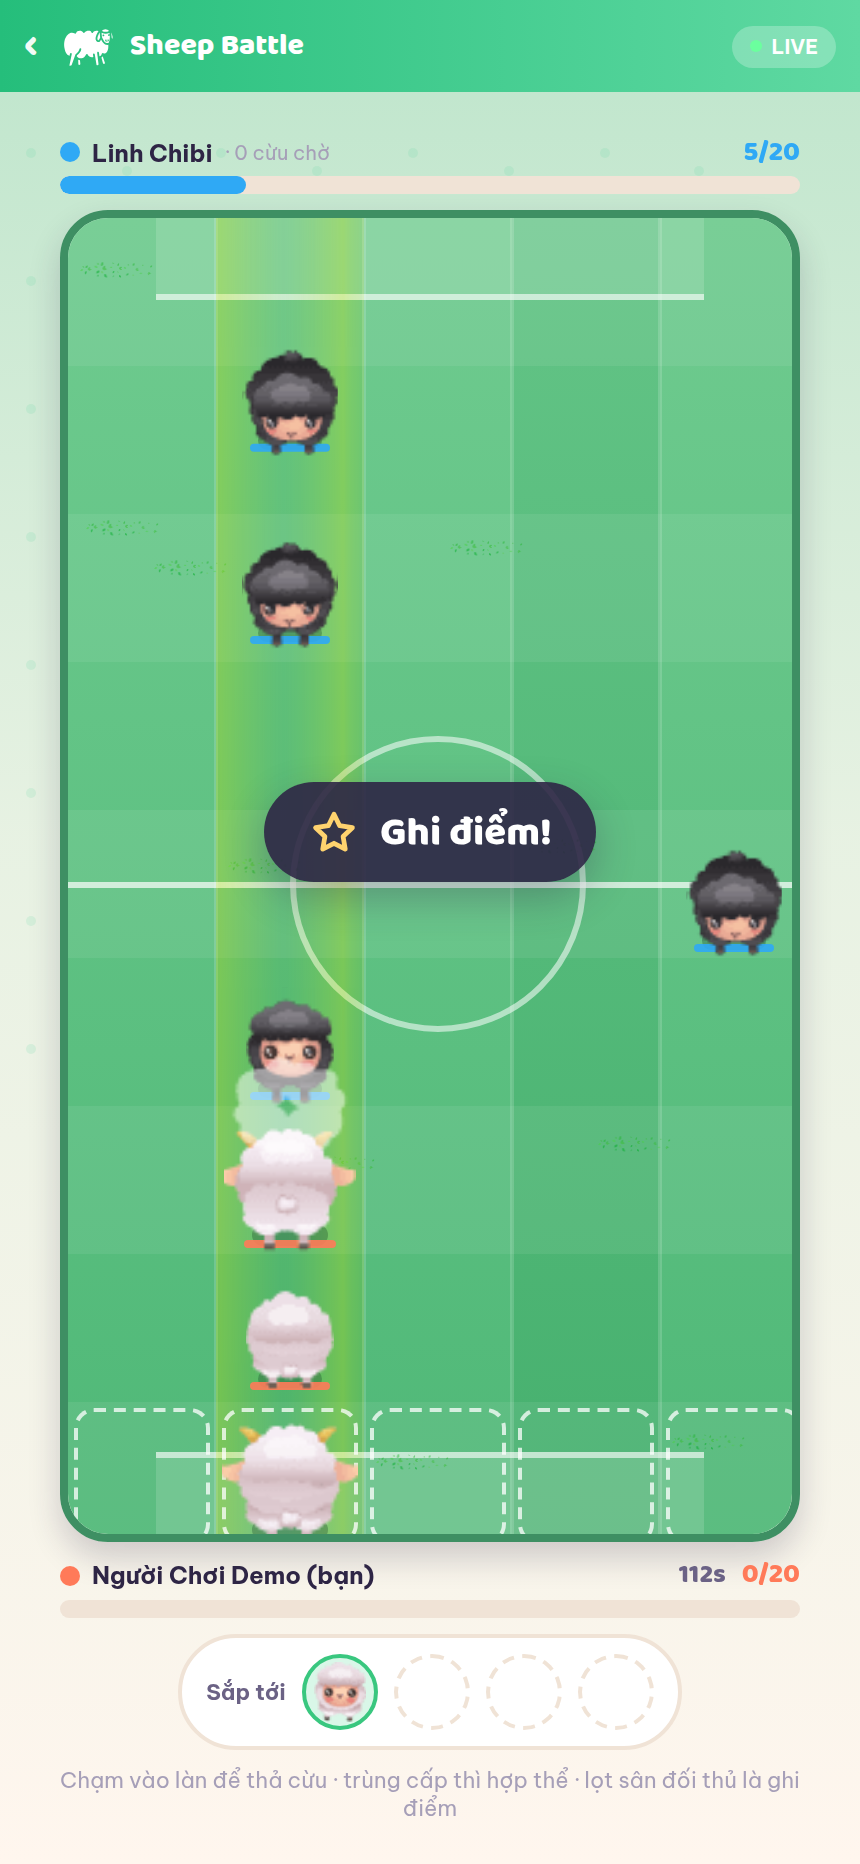
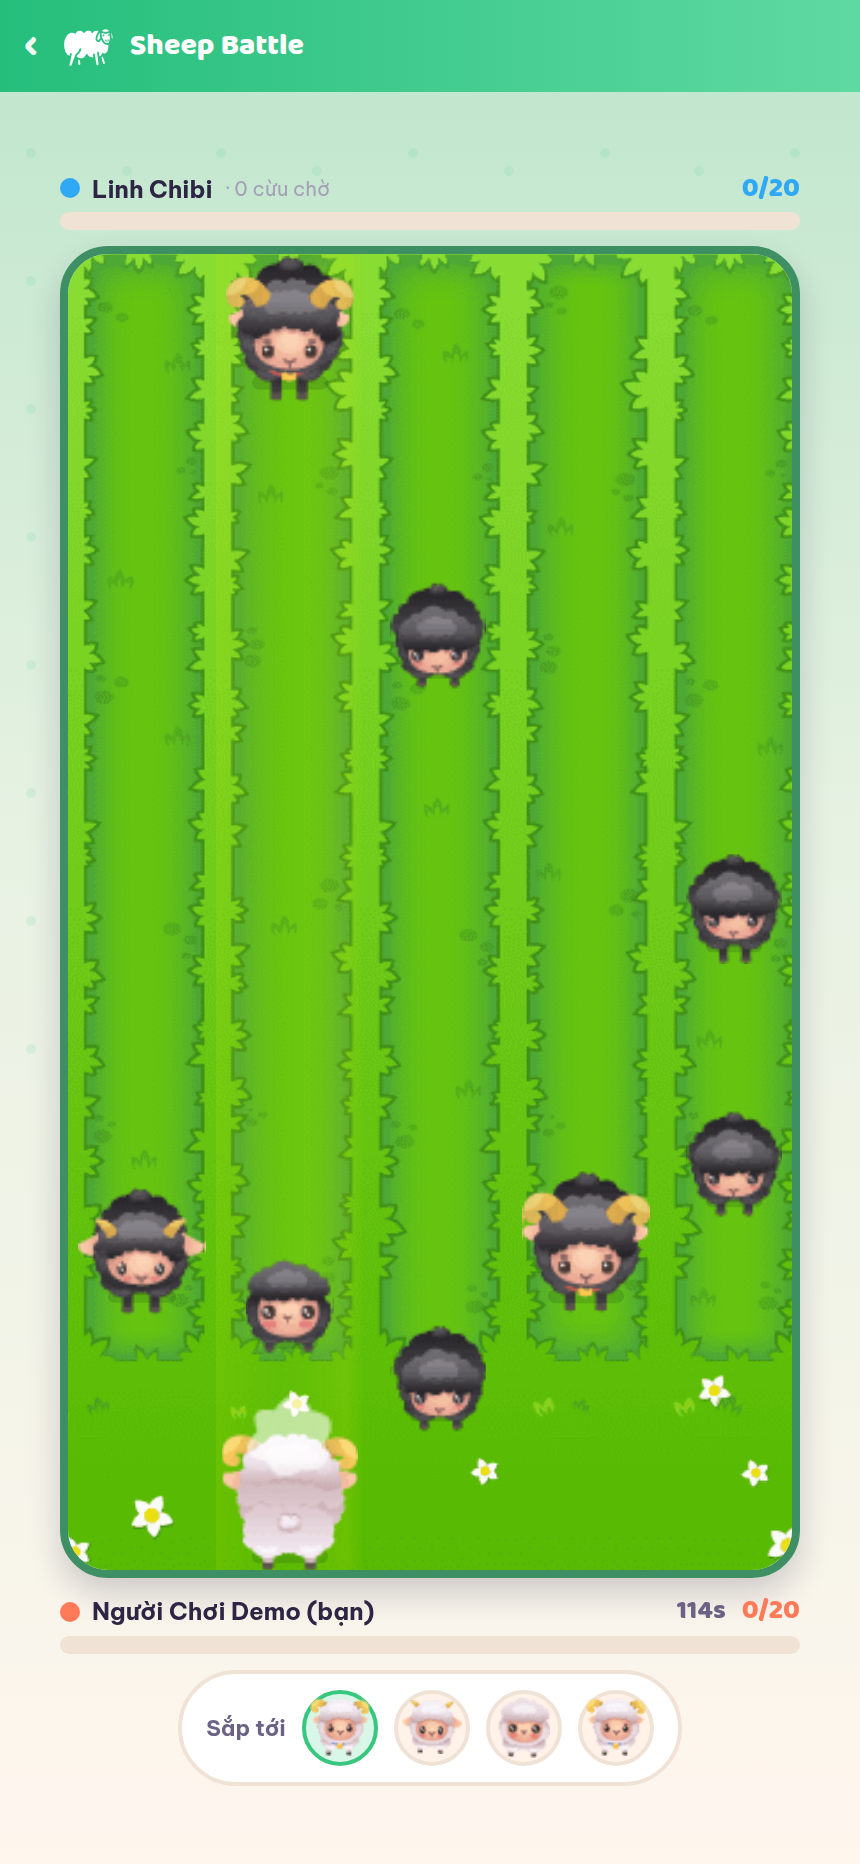
Sheep Battle theo đúng luật gốc: bỏ hợp thể, đẩy nhau theo trọng lượng đàn
- Engine tính trọng lượng cả dây cừu liền nhau trong làn, bên nặng hơn đẩy nguyên
  cụm lùi một ô mỗi 700ms, ngang cân thì đứng im; không còn cơ chế hợp thể.
- Cấp cừu bốc ngẫu nhiên 1-5 theo tỉ lệ 40/30/17/9/4 %.
- Cừu bị đẩy ngược qua vạch nhà thì đối thủ được điểm bằng cấp của nó.
- Cắt dải trời và nông trại khỏi ảnh sàn, bỏ dòng ghi chú dưới sân.
- Bot thả cừu vào làn trống đang thiếu trọng lượng nhất.
- README mô tả lại luật và ghi chú cách cắt sàn.

diff --git a/packages/shared/src/games/sheep.ts b/packages/shared/src/games/sheep.ts
@@ -60,9 +60,17 @@ const REFILL_MS = 1400;
 const dirOf = (seat: number) => (seat === 0 ? 1 : -1);
 const spawnPos = (seat: number, laneLength: number) => (seat === 0 ? 0 : laneLength - 1);
 
-/** Cừu mới chủ yếu là cấp 1, thỉnh thoảng được cấp 2 cho đỡ nhàm. */
+/**
+ * Cấp cừu trong hàng chờ bốc ngẫu nhiên như bản gốc (rand % 5), nghiêng về cừu
+ * nhỏ để cừu chúa vẫn là của hiếm.
+ */
 function rollLevel(rng: Rng): number {
-  return rng.next() < 0.18 ? 2 : 1;
+  const r = rng.next();
+  if (r < 0.4) return 1;
+  if (r < 0.7) return 2;
+  if (r < 0.87) return 3;
+  if (r < 0.96) return 4;
+  return 5;
 }
 
 export const SheepEngine: GameEngine<SheepState, SheepConfig> = {
@@ -96,7 +104,7 @@ export const SheepEngine: GameEngine<SheepState, SheepConfig> = {
       turnStartedAt: now,
       winnerIds: [],
       over: false,
-      log: ['Thả cừu vào làn — hai cừu cùng cấp chồng lên nhau sẽ tiến hoá!'],
+      log: ['Thả cừu vào làn — làn nào nặng hơn thì đẩy được đàn địch lùi về!'],
       turnSeconds: 0,
     };
   },
@@ -122,26 +130,18 @@ export const SheepEngine: GameEngine<SheepState, SheepConfig> = {
     const log: string[] = [];
     const events: any[] = [];
 
-    if (occupant) {
-      if (occupant.seat !== seat) return err('LANE_BLOCKED');
-      if (occupant.level !== level) return err('LANE_BLOCKED');
-      if (occupant.level >= MAX_LEVEL) return err('MAX_LEVEL_REACHED');
-      // Thả trúng cừu cùng cấp ở ô xuất phát → tiến hoá tại chỗ.
-      const target = units.find((u) => u.id === occupant.id)!;
-      target.level += 1;
-      log.push(`${state.players[seat].name} tiến hoá cừu lên cấp ${target.level}`);
-      events.push({ type: 'merge', payload: { seat, lane, level: target.level } });
-    } else {
-      units.push({
-        id: state.nextUnitId,
-        seat,
-        lane,
-        pos,
-        level,
-        lastMoveAt: now,
-      });
-      events.push({ type: 'deploy', payload: { seat, lane, level } });
-    }
+    // Ô xuất phát còn cừu thì chờ nó đi đã — không có luật hợp thể.
+    if (occupant) return err('LANE_BLOCKED');
+
+    units.push({
+      id: state.nextUnitId,
+      seat,
+      lane,
+      pos,
+      level,
+      lastMoveAt: now,
+    });
+    events.push({ type: 'deploy', payload: { seat, lane, level } });
 
     queues[seat] = queue.slice(1);
 
@@ -150,7 +150,7 @@ export const SheepEngine: GameEngine<SheepState, SheepConfig> = {
         ...state,
         units,
         queues,
-        nextUnitId: state.nextUnitId + (occupant ? 0 : 1),
+        nextUnitId: state.nextUnitId + 1,
         log: [...state.log, ...log].slice(-20),
       },
       events,
@@ -178,75 +178,112 @@ export const SheepEngine: GameEngine<SheepState, SheepConfig> = {
       }
     });
 
-    // Cừu đi trước là cừu đang tiến sâu nhất vào phần sân đối phương.
-    const advance = (u: SheepUnit) => (u.seat === 0 ? u.pos : state.laneLength - 1 - u.pos);
-    const order = units.slice().sort((a, b) => advance(b) - advance(a));
     const dead = new Set<number>();
 
-    for (const mover of order) {
-      if (dead.has(mover.id)) continue;
-      // Đang ghì nhau: đứng tại chỗ đẩy, chưa đi và chưa phân thắng bại.
-      if (mover.lockUntil && now < mover.lockUntil) continue;
-      if (now - mover.lastMoveAt < MOVE_MS) continue;
-      mover.lastMoveAt = now;
-      dirty = true;
+    /**
+     * Ghi điểm khi một con vượt qua vạch cuối. Vượt vạch sân địch là mình ghi;
+     * bị đẩy lùi qua vạch sân nhà thì đối thủ ghi — đúng như bản gốc, nơi cừu
+     * chạm vạch nào cũng trừ điểm của bên giữ vạch đó.
+     */
+    const crossLine = (u: SheepUnit) => {
+      if (u.pos >= 0 && u.pos < state.laneLength) return false;
+      // Vạch dưới (pos < 0) là sân của ghế 0, vạch trên là sân của ghế 1.
+      const owner = u.pos < 0 ? 0 : 1;
+      const scorer = u.seat === owner ? 1 - owner : u.seat;
+      score[scorer] += u.level;
+      dead.add(u.id);
+      log.push(`${state.players[scorer].name} ghi ${u.level} điểm`);
+      events.push({ type: 'score', payload: { seat: scorer, points: u.level } });
+      return true;
+    };
 
-      const dir = dirOf(mover.seat);
-      const next = mover.pos + dir;
+    // Xử lý từng làn một: trong một làn, cả đàn dính nhau thành một khối đẩy.
+    const byLane = new Map<number, SheepUnit[]>();
+    for (const u of units) {
+      const list = byLane.get(u.lane) ?? [];
+      list.push(u);
+      byLane.set(u.lane, list);
+    }
 
-      // Lọt qua đầu sân đối thủ → ghi điểm bằng đúng cấp của cừu.
-      if (next < 0 || next >= state.laneLength) {
-        score[mover.seat] += mover.level;
-        dead.add(mover.id);
-        log.push(`${state.players[mover.seat].name} ghi ${mover.level} điểm`);
-        events.push({ type: 'score', payload: { seat: mover.seat, points: mover.level } });
-        continue;
+    for (const laneUnits of byLane.values()) {
+      laneUnits.sort((a, b) => a.pos - b.pos);
+
+      // Điểm chạm: hai con sát nhau nhưng khác phe.
+      let contact: [SheepUnit, SheepUnit] | null = null;
+      for (let i = 0; i + 1 < laneUnits.length; i++) {
+        const a = laneUnits[i];
+        const b = laneUnits[i + 1];
+        if (a.seat !== b.seat && b.pos - a.pos === 1) {
+          contact = [a, b];
+          break;
+        }
       }
 
-      const target = units.find((u) => !dead.has(u.id) && u.id !== mover.id && u.lane === mover.lane && u.pos === next);
+      if (contact) {
+        const [low, high] = contact;
+        // Chuỗi cừu cùng phe đứng liền sau con đầu — cả chuỗi cùng góp sức đẩy.
+        const chainOf = (head: SheepUnit, step: 1 | -1) => {
+          const chain = [head];
+          let p = head.pos;
+          for (;;) {
+            const behind = laneUnits.find((u) => u.seat === head.seat && u.pos === p + step);
+            if (!behind) break;
+            chain.push(behind);
+            p += step;
+          }
+          return chain;
+        };
+        const lowChain = chainOf(low, -1);
+        const highChain = chainOf(high, 1);
+        const lowWeight = lowChain.reduce((sum, u) => sum + u.level, 0);
+        const highWeight = highChain.reduce((sum, u) => sum + u.level, 0);
+        const both = [...lowChain, ...highChain];
 
-      if (!target) {
-        mover.pos = next;
-        continue;
-      }
+        // Đang tì nhau thì đi chậm hơn lúc chạy không.
+        const lastPush = Math.max(...both.map((u) => u.lastMoveAt));
+        if (now - lastPush < PUSH_MS) {
+          for (const u of both) u.clashAt = now;
+          continue;
+        }
 
-      if (target.seat === mover.seat) {
-        // Cừu nhà: cùng cấp thì hợp nhất, khác cấp thì đứng chờ.
-        if (target.level === mover.level && target.level < MAX_LEVEL) {
-          target.level += 1;
-          dead.add(mover.id);
-          events.push({ type: 'merge', payload: { seat: mover.seat, lane: mover.lane, level: target.level } });
+        for (const u of both) {
+          u.lastMoveAt = now;
+          u.clashAt = now;
+        }
+        dirty = true;
+
+        // Bên nặng hơn đẩy cả khối về phía sân bên nhẹ; cân sức thì giậm chân.
+        const shift = lowWeight > highWeight ? 1 : highWeight > lowWeight ? -1 : 0;
+        if (shift === 0) continue;
+
+        const winnerSeat = shift === 1 ? low.seat : high.seat;
+        events.push({ type: 'push', payload: { lane: low.lane, seat: winnerSeat } });
+        for (const u of both) {
+          u.pos += shift;
+          crossLine(u);
         }
         continue;
       }
 
-      // Chạm cừu địch: ghì nhau một nhịp cho thấy hai bên đang đẩy, hết nhịp
-      // mới trừ cấp. Không có nhịp này thì va chạm xong trong một tick, người
-      // chơi chỉ thấy cừu biến mất.
-      if (!mover.lockUntil || !target.lockUntil) {
-        mover.lockUntil = now + PUSH_MS;
-        target.lockUntil = now + PUSH_MS;
-        mover.clashAt = now;
-        target.clashAt = now;
-        events.push({ type: 'clash', payload: { lane: mover.lane, pos: next, by: mover.seat } });
-        continue;
-      }
+      // Không chạm địch: ai tới nhịp thì đi, con trước đi trước để cả hàng dồn lên.
+      const advance = (u: SheepUnit) => (u.seat === 0 ? u.pos : state.laneLength - 1 - u.pos);
+      const order = laneUnits.slice().sort((a, b) => advance(b) - advance(a));
+      for (const mover of order) {
+        if (dead.has(mover.id)) continue;
+        if (now - mover.lastMoveAt < MOVE_MS) continue;
+        mover.lastMoveAt = now;
+        dirty = true;
 
-      const damage = Math.min(mover.level, target.level);
-      mover.level -= damage;
-      target.level -= damage;
-      mover.clashAt = now;
-      target.clashAt = now;
-      events.push({
-        type: 'clash',
-        payload: { lane: mover.lane, pos: next, by: mover.seat },
-      });
-      mover.lockUntil = undefined;
-      target.lockUntil = undefined;
-      if (target.level <= 0) dead.add(target.id);
-      if (mover.level <= 0) dead.add(mover.id);
-      // Thắng giao tranh thì tràn lên ô vừa dọn sạch.
-      if (mover.level > 0 && target.level <= 0) mover.pos = next;
+        const next = mover.pos + dirOf(mover.seat);
+        if (next < 0 || next >= state.laneLength) {
+          mover.pos = next;
+          crossLine(mover);
+          continue;
+        }
+        // Ô trước mặt còn người thì đứng chờ — chạm địch sẽ thành thế đẩy ở tick sau.
+        if (laneUnits.some((u) => !dead.has(u.id) && u.id !== mover.id && u.pos === next)) continue;
+        mover.pos = next;
+      }
     }
 
     units = units.filter((u) => !dead.has(u.id));

diff --git a/apps/mobile/src/games/SheepArena.tsx b/apps/mobile/src/games/SheepArena.tsx
@@ -15,6 +15,12 @@ import { BoardProps } from './shared';
  */
 const MAP_LANES = { x: 113, width: 418, full: 540 };
 
+/**
+ * Dải trời và nông trại nằm ở y 0–190 của ảnh gốc. Cắt bỏ để cừu không đi lên
+ * cả bầu trời; giữ từ đầu làn cỏ (y 190) xuống hết đồng hoa (y 960).
+ */
+const MAP_ROWS = { y: 190, height: 770, full: 960 };
+
 /** Cừu càng cấp cao càng to và nhiều chi tiết (sừng, gạc, vương miện). */
 const LEVEL_SCALE = [0.74, 0.74, 0.86, 0.98, 1.1, 1.24];
 
@@ -104,9 +110,9 @@ export default function SheepArena({ view, mySeat, send, space }: BoardProps) {
             style={{
               position: 'absolute',
               width: (fieldW / MAP_LANES.width) * MAP_LANES.full,
-              height: fieldH,
+              height: (fieldH / MAP_ROWS.height) * MAP_ROWS.full,
               left: (-MAP_LANES.x / MAP_LANES.width) * fieldW,
-              top: 0,
+              top: (-MAP_ROWS.y / MAP_ROWS.height) * fieldH,
             }}
           />
         </View>
@@ -250,10 +256,6 @@ export default function SheepArena({ view, mySeat, send, space }: BoardProps) {
         })}
       </View>
 
-      {/* Trận realtime nên bỏ nhật ký chữ: mọi diễn biến đã thấy ngay trên sân. */}
-      <Txt size={11} color={C.inkFaint} center style={{ maxWidth: space.width - 20 }}>
-        Chạm vào làn để thả cừu · trùng cấp thì hợp thể · lọt sân đối thủ là ghi điểm
-      </Txt>
     </View>
   );
 }

diff --git a/apps/mobile/src/components/SheepSprite.tsx b/apps/mobile/src/components/SheepSprite.tsx
@@ -3,8 +3,8 @@ import { Animated, Easing, Image, View } from 'react-native';
 import { SHEEP_STRIPS, SheepAnim, SheepTeam, sheepBadge, sheepStrip } from '../art/sheepFight';
 
 /**
- * Cừu trong Sheep Battle — sprite thật của game Sheep Fight, mỗi bậc hợp thể là
- * một giống cừu riêng: cừu non chưa có sừng, nhú sừng, sừng xoắn, đeo băng đầu,
+ * Cừu trong Sheep Battle — sprite thật của game Sheep Fight, mỗi cấp là một giống
+ * cừu riêng: cừu non chưa có sừng, nhú sừng, sừng xoắn, đeo băng đầu,
  * cừu chúa sừng vàng mặt dữ. Hai phe khác hẳn nhau chứ không chỉ đổi màu: đàn
  * trắng nhìn từ sau lưng (đang đi lên), đàn đen nhìn chính diện (đang đi xuống).
  *

diff --git a/apps/mobile/app/match/[id].tsx b/apps/mobile/app/match/[id].tsx
@@ -36,7 +36,7 @@ const FLASH: Record<string, { icon: IconName; text: string }> = {
   rent: { icon: 'coin', text: 'Thu tô!' },
   bankrupt: { icon: 'flame', text: 'Phá sản!' },
   chance: { icon: 'question', text: 'Cơ hội!' },
-  merge: { icon: 'sparkle', text: 'Tiến hoá!' },
+  push: { icon: 'flame', text: 'Đẩy lùi!' },
 };
 
 export default function MatchScreen() {

diff --git a/packages/shared/src/types.ts b/packages/shared/src/types.ts
@@ -81,7 +81,7 @@ export const GAME_CATALOG: Record<GameType, GameMeta> = {
     id: 'sheep',
     name: 'Sheep Battle',
     nameEn: 'Sheep Fight',
-    tagline: 'Thả cừu, hợp thể, đẩy sập sân đối thủ',
+    tagline: 'Thả cừu, dồn sức đẩy đàn địch về sân nhà',
     minPlayers: 2,
     maxPlayers: 2,
     category: 'Realtime lane battle',

diff --git a/README.md b/README.md
@@ -97,7 +97,7 @@ Mobile (RN/Expo) ──REST──> Express API ──> SQLite (WAL)
 | Cờ Caro | 2 | Board strategy | Normal/Ranked/Custom | Bàn cấu hình 9–19, luật đúng-5-quân |
 | Bắn Tàu | 2 | Turn-based | Normal/Ranked/Custom | Hidden board, trúng được bắn tiếp |
 | Ô Ăn Quan | 2 | Board dân gian | Normal/Ranked/Custom | Rải, ăn dây, rải lại khi hết dân |
-| Sheep Battle | 2 | Realtime lane battle | Normal/Ranked/Custom | Thả cừu theo làn, hợp thể 5 cấp, chạm nhau trừ cấp |
+| Sheep Battle | 2 | Realtime lane battle | Normal/Ranked/Custom | Thả cừu theo làn, cấp 1–5 bốc ngẫu nhiên, bên nặng hơn đẩy lùi bên nhẹ |
 | Cờ Tỷ Phú | 2–4 | Board/economy | Normal/Custom | Bàn 24 ô, độc quyền x2 tô, tù, phá sản |
 | Cờ Cá Ngựa | 2–4 | Board casual | Normal/Ranked/Custom | Ô an toàn, đá ngựa, ra 6 đi tiếp |
 | Ma Sói | 4–16 | Social deduction | Normal/Custom | State machine đêm/ngày/vote, 6 vai |
@@ -139,10 +139,13 @@ báo cáo người chơi, lọc từ ngữ tục tĩu, rate limit chống spam.
 Trong phòng: kick, mời bạn bè, đánh dấu sẵn sàng, chat phòng. Quick Match ghép theo
 game + mode + region với cửa sổ Elo nới dần theo thời gian chờ.
 
-**Sheep Battle** — bản đấu cừu theo làn giống hệt game gốc: hàng chờ cừu tự hồi,
-chạm vào làn để thả, thả trúng cừu cùng cấp thì hợp thể (cừu → cừu sừng → dê → hươu →
-kỳ lân), cừu hai bên chạm nhau trừ cấp lẫn nhau, cừu lọt qua sân đối thủ ghi điểm bằng
-đúng cấp của nó. Ai chạm mốc 20 điểm trước hoặc dẫn điểm khi hết 2 phút là thắng.
+**Sheep Battle** — đúng luật game gốc: hàng chờ cừu tự hồi, mỗi con bốc ngẫu nhiên
+cấp 1–5 (40/30/17/9/4 %), chạm vào làn để thả — làn đang có cừu đứng ngay ô xuất
+phát thì không thả được. Hai đàn gặp nhau trong một làn thì **ghì nhau**: mỗi bên
+cộng cấp của cả dây cừu liền nhau thành trọng lượng, bên nặng hơn đẩy nguyên cụm
+lùi một ô mỗi 700ms, ngang cân thì đứng im. Cừu lọt qua vạch cuối sân đối thủ ghi
+điểm bằng đúng cấp của nó — bị đẩy ngược qua vạch nhà mình thì đối thủ được điểm.
+Ai chạm mốc 20 điểm trước hoặc dẫn điểm khi hết 2 phút là thắng.
 
 **Realtime** — Socket.IO, idempotency theo `action_id`, version state tăng dần,
 reconnect tự động khôi phục ván đang chơi, grace period 60s trước khi xử thua AFK.
@@ -257,7 +260,7 @@ giấy phép) rồi sinh `src/art/gameArt.ts` — dữ liệu vector đã bỏ n
 chỗ ăn màu, để `<Art>` vẽ bằng `react-native-svg` và tô theo phe / theo trạng thái.
 Muốn đổi hình cho game nào chỉ cần sửa một dòng trong bảng `ART` của script.
 
-Sheep Battle dùng **art gốc của game Sheep Fight**: mỗi bậc hợp thể là một giống
+Sheep Battle dùng **art gốc của game Sheep Fight**: mỗi cấp cừu là một giống
 cừu riêng — cừu non chưa có sừng, nhú sừng, sừng xoắn, đeo băng đầu, cừu chúa
 sừng vàng mặt dữ — và hai phe khác hẳn nhau chứ không chỉ đổi màu: đàn trắng
 nhìn từ sau lưng (đang đi lên), đàn đen nhìn chính diện (đang đi xuống).
@@ -271,6 +274,8 @@ nhìn từ sau lưng (đang đi lên), đàn đen nhìn chính diện (đang đi
   đàn cừu đi mượt thay vì nhảy cóc mỗi lần tick; lúc húc thì nảy gấp đôi nhịp.
 - Kích thước từng khung đọc thẳng từ file `.meta` của Unity đi kèm sprite —
   vài strip lẻ 1–2px nên chia đều chiều ngang là lệch khung.
+- Sàn đấu là ảnh `map.png` gốc, cắt đúng vùng 5 làn (`MAP_LANES`) và bỏ dải trời
+  cùng nông trại phía xa (`MAP_ROWS`) để cừu không đi lên cả bầu trời.
 
 Tải lại bộ art: `node apps/mobile/scripts/fetch-sheep-fight.mjs`.
 
